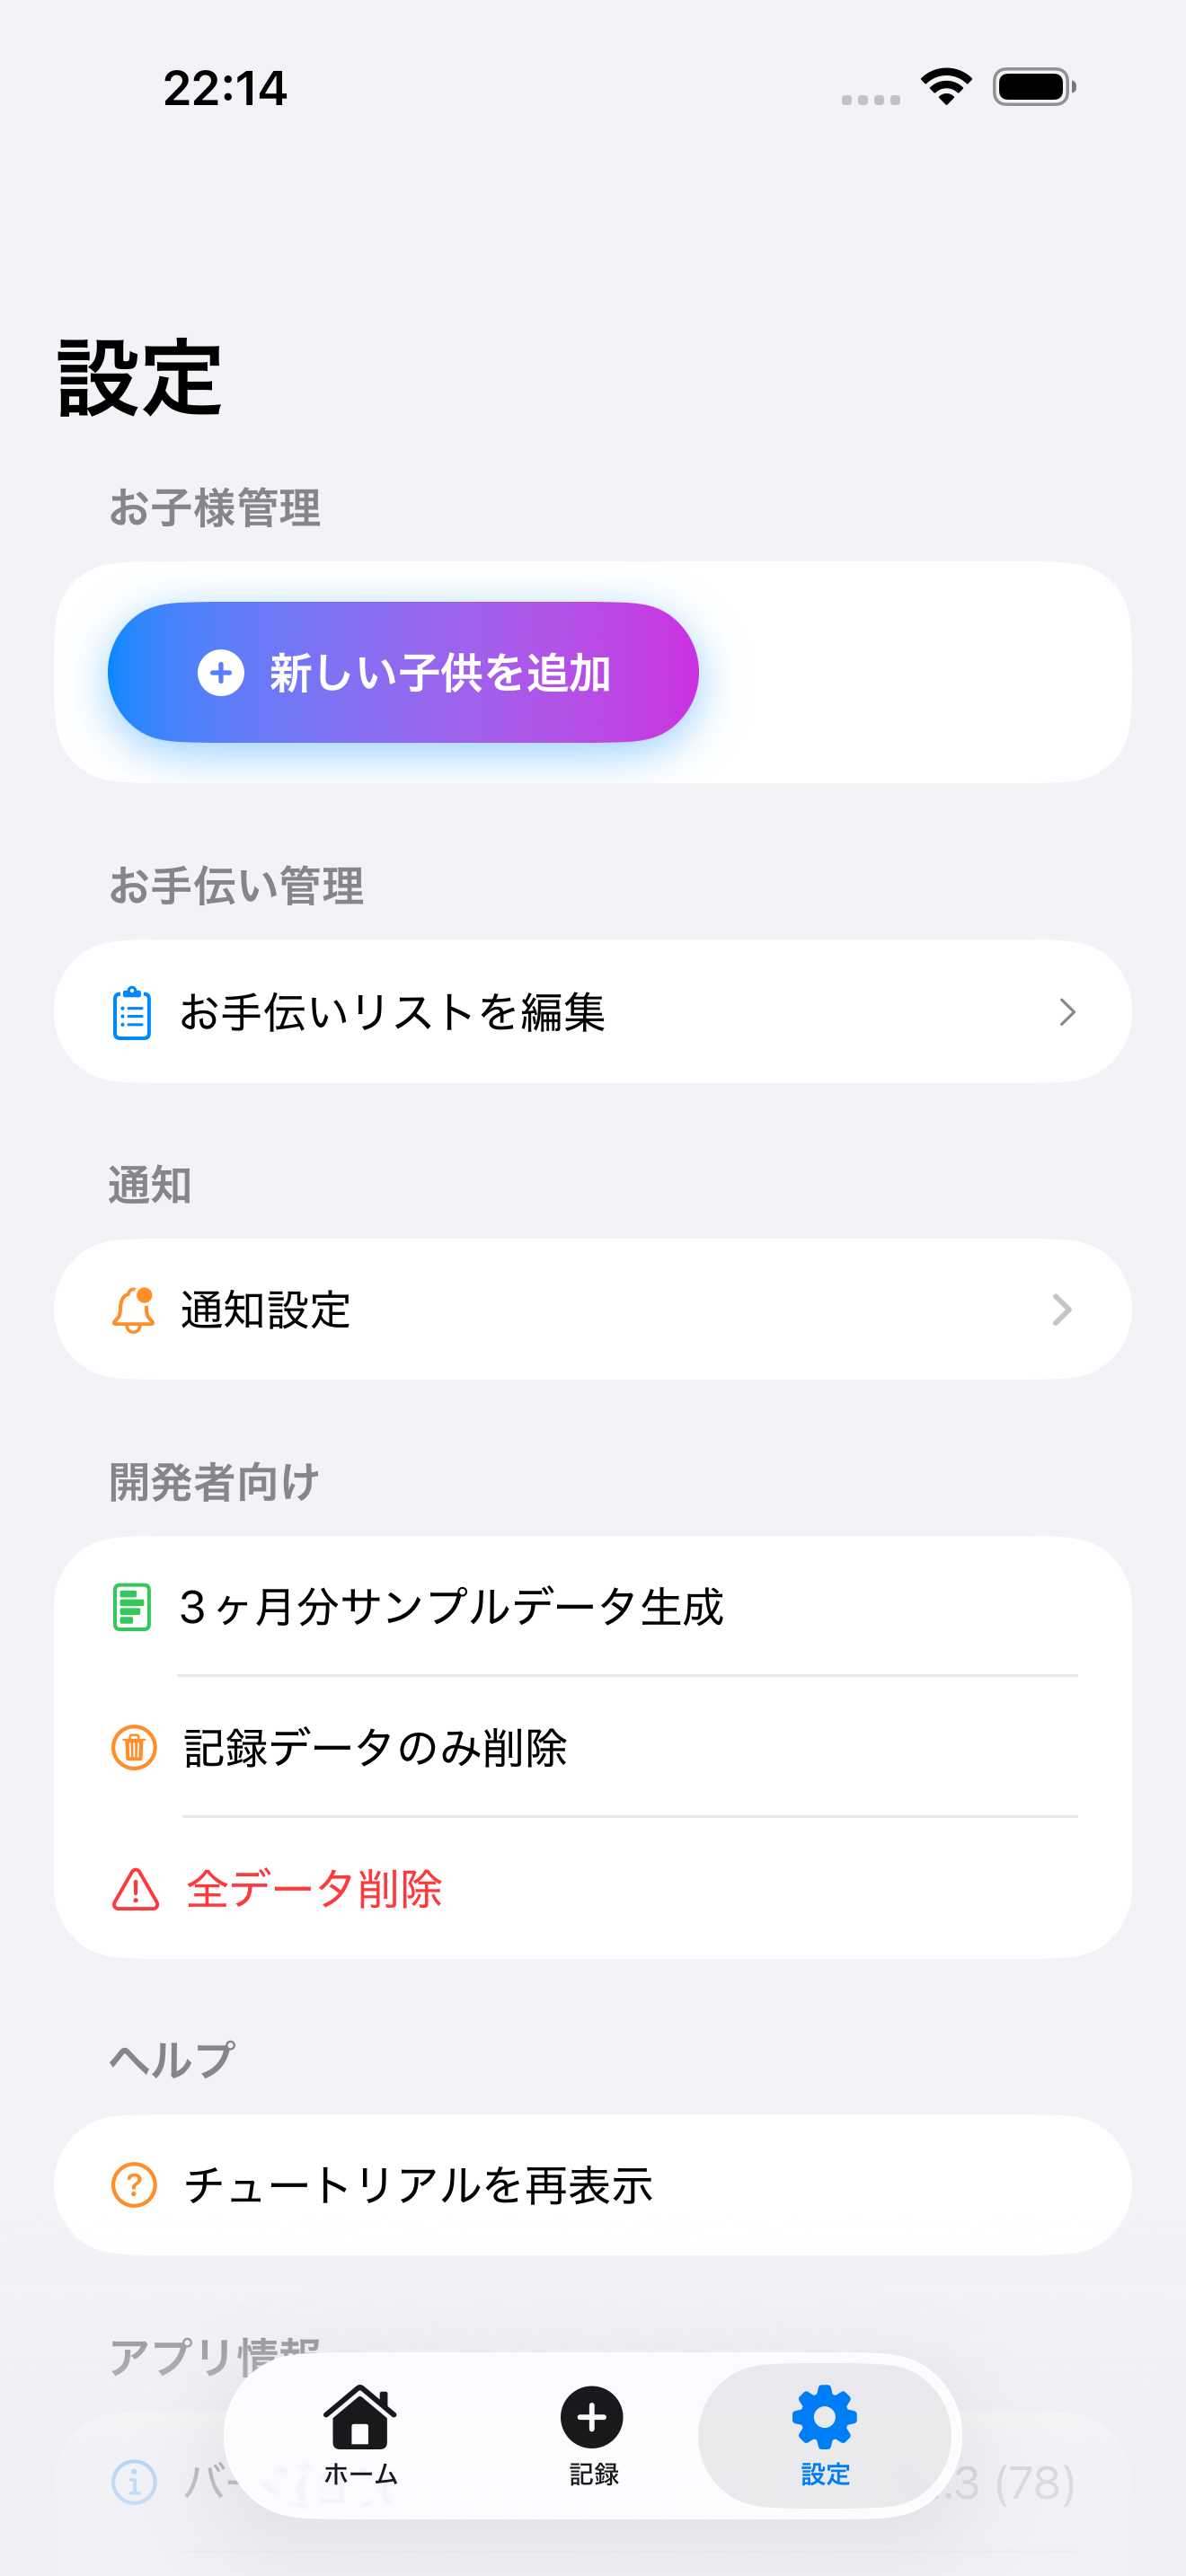
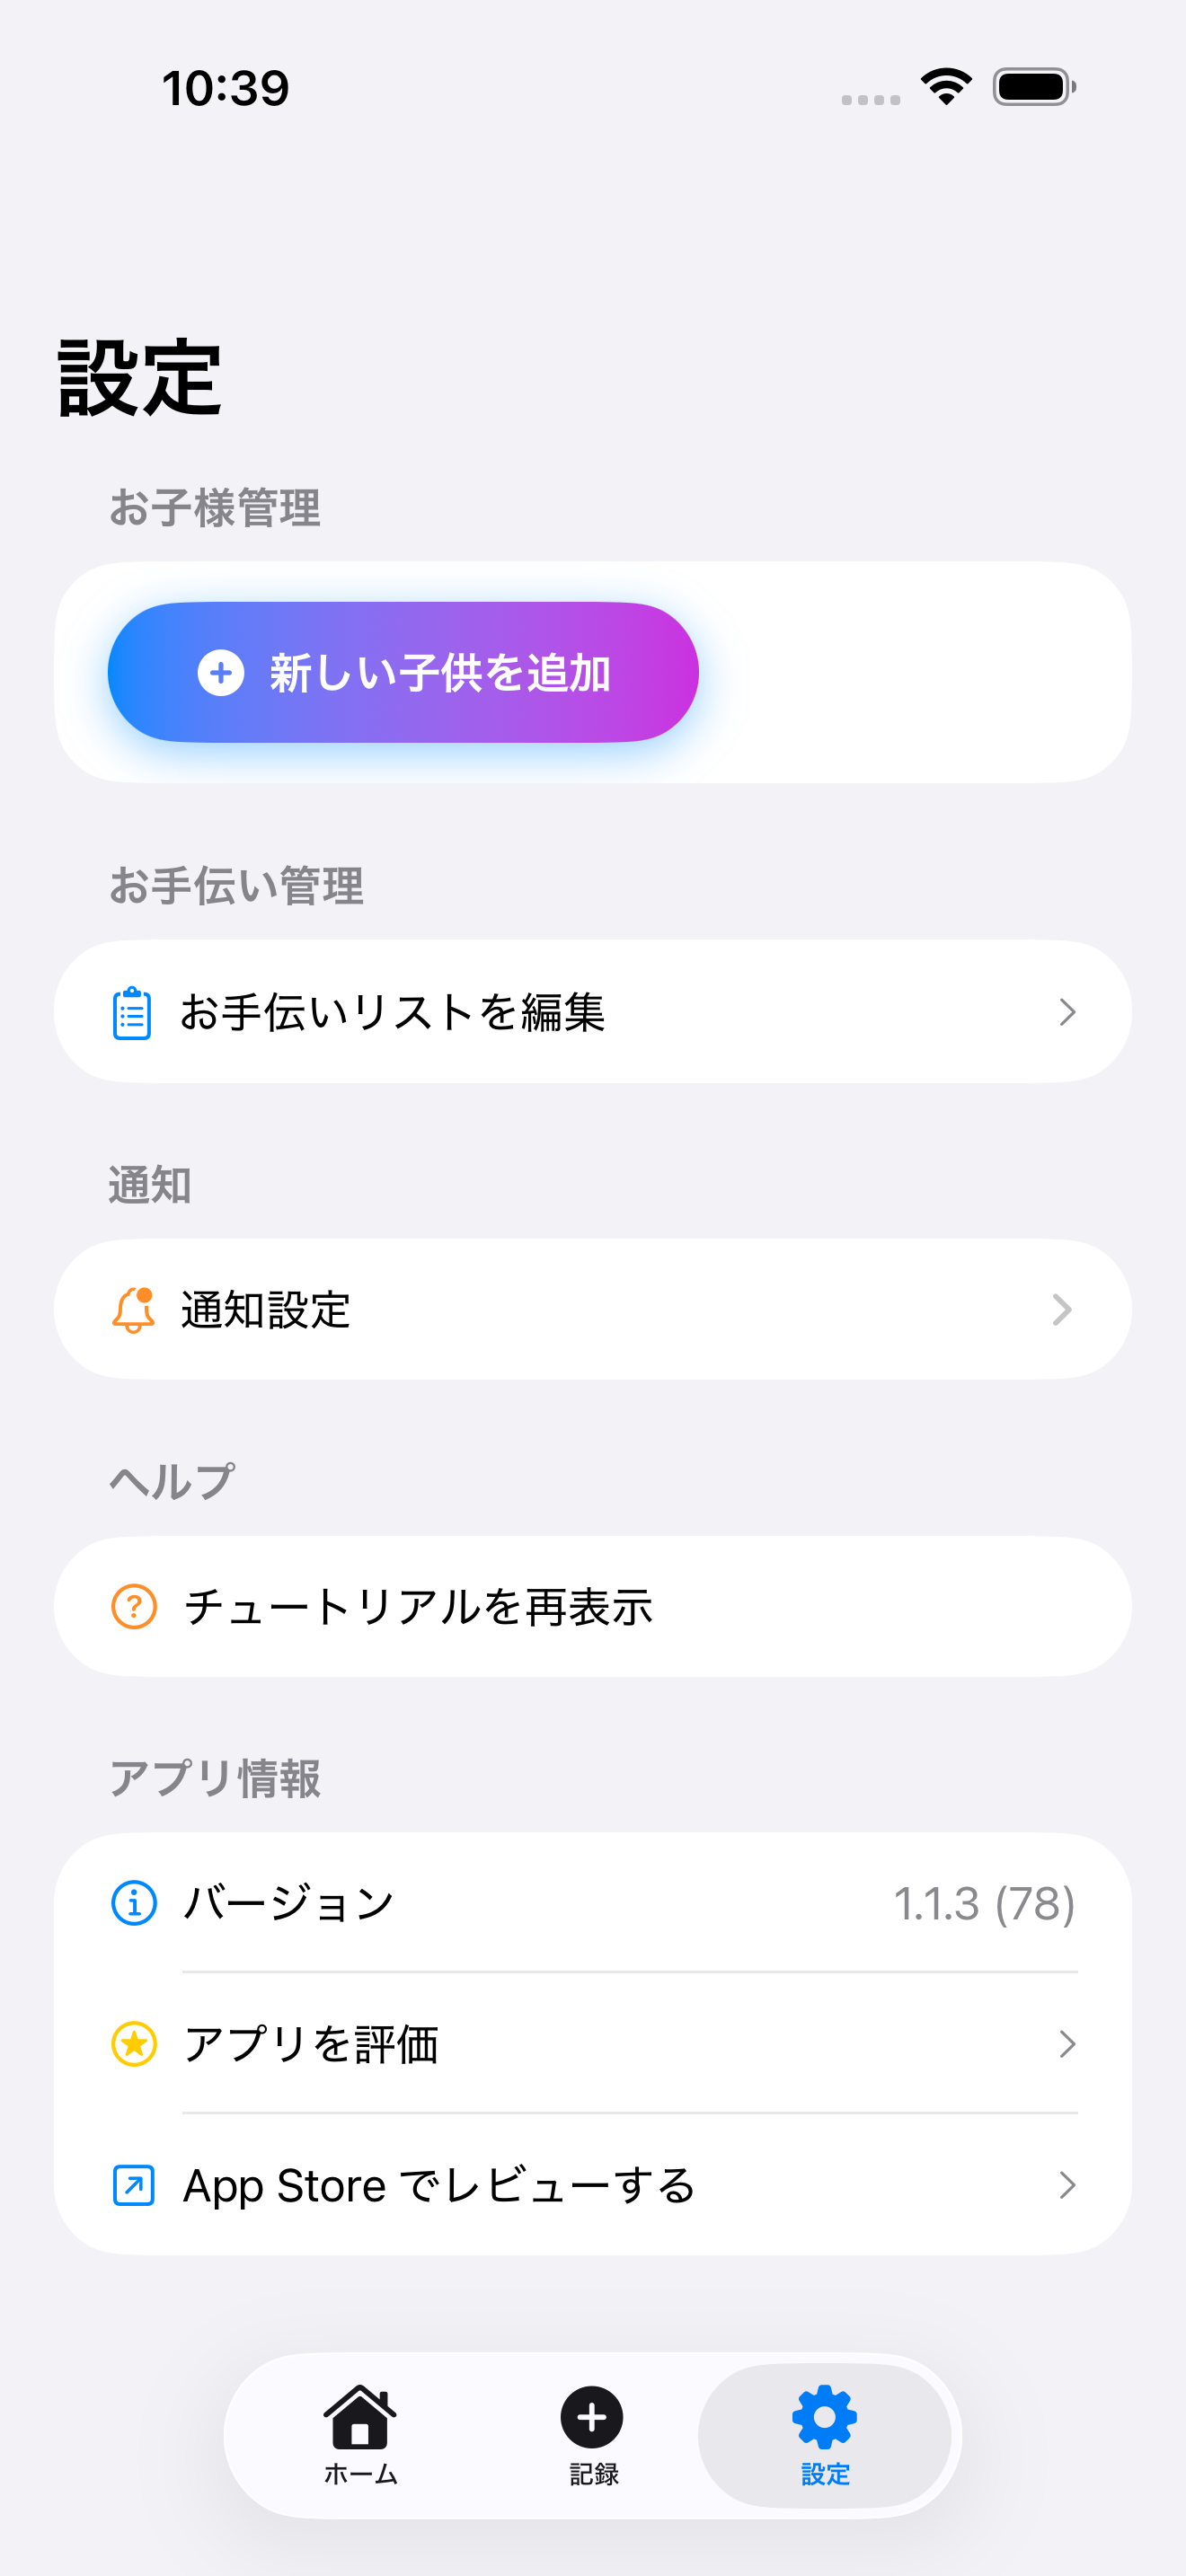
Merge pull request #115 from es0612/fix/issue-95-hide-developer-tools
fix(#95): ASC スクショで Developer 節を隠し Version 行の tab bar 被りを解消

Pull request: fix(#95): ASC スクショで Developer 節を隠し Version 行の tab bar 被りを解消
## 概要

ASC スクショ (Settings) で App Info(Version) 行が floating tab bar に被って隠れる問題を解消する (Issue #95, #89-4 follow-up / PR #94 revert の再挑戦)。

## 根本原因 — これは「レイアウトバグ」ではなく「スクショの不忠実」だった

`「開発者向け」` 節は `#if DEBUG` 限定で、**App Store で配信される Release ビルドには存在しない**。ところが ASC スクショは UI テスト = **Debug ビルド**で撮影するため Developer 節が映り込み、その ~2 セクション分が App Info を tab bar の裏まで押し下げていた。

つまり **実機 (Release) の Settings は元から壊れていない** — Developer 節が無ければ Version 行は tab bar をクリアする。本 PR の再撮影スクショがその証拠になる。よって**実レイアウト (Section 順序や inset) には一切手を入れず**、スクショを Release 実画面に忠実化するアプローチを採った。

## 変更

| ファイル | 内容 |
|---|---|
| `SettingsView.swift` | 撮影専用 launch arg `--hide-developer-tools` で Developer 節を非表示にする実行時ゲートを追加。判定は testable な static helper `shouldShowDeveloperTools(arguments:)` に切り出し |
| `ASCScreenshotUITests.swift` | 撮影時に `--hide-developer-tools` を付与 |
| `SettingsViewTests.swift` (新規) | helper の unit test 2件 (フラグ有→非表示 / 無→表示) |
| `docs/.../{en,ja}/03-settings.png` | 再撮影。Developer 節が消え Version 行が tab bar をクリア |

`--uitesting` を再利用せず**専用フラグ**にした理由: `--uitesting` は機能 UI テストでも使われており、将来 Developer 節を検証したいテストが出ても壊さないため (意図の局所化)。実機 / 通常開発ビルドの Developer 節は従来通り表示。

## 検証

- **helper unit test 2件**: `** TEST SUCCEEDED **` / `EXIT=0`
- **再撮影 + 目視**: `./scripts/capture-asc-screenshots.sh` → `en/ja 03-settings.png` で Developer 節が消え、Version 行 (`Version 1.1.3 (78)` / `バージョン 1.1.3 (78)`) が tab bar に被らず全文表示。acceptance 達成。
[…]

diff --git a/app/OtetsudaiCoinTests/Presentation/Views/SettingsViewTests.swift b/app/OtetsudaiCoinTests/Presentation/Views/SettingsViewTests.swift
@@ -1,0 +1,32 @@
+import XCTest
+import SwiftUI
+@testable import OtetsudaiCoin
+
+@MainActor
+final class SettingsViewTests: XCTestCase {
+
+    // SettingsView 本体は NavigationStack + List + Material + AccessibilityImageLabel の
+    // 組み合わせで ViewInspector が深く traverse できない (既知制約) ため、UI 構造は
+    // structural test で担保せず、ASC スクショ再撮影の目視検証に委ねる。
+    // 撮影時に DEBUG 限定 Developer 節を隠す判定 (Issue #95) は純粋関数として切り出し、
+    // ここで網羅する。
+
+    #if DEBUG
+    /// 撮影フラグ (--hide-developer-tools) があるとき Developer 節を隠す (= 表示しない)。
+    /// ASC スクショを Release 実画面に忠実化するための挙動。
+    func test_shouldShowDeveloperTools_hiddenWhenFlagPresent() {
+        XCTAssertFalse(
+            SettingsView.shouldShowDeveloperTools(arguments: ["--hide-developer-tools"]),
+            "撮影フラグ付き起動では Developer 節を非表示にすべき"
+        )
+    }
+
+    /// フラグが無い通常起動 (実機 / 開発ビルド) では従来通り Developer 節を表示する。
+    func test_shouldShowDeveloperTools_shownWhenFlagAbsent() {
+        XCTAssertTrue(
+            SettingsView.shouldShowDeveloperTools(arguments: ["--uitesting"]),
+            "撮影フラグが無い起動では Developer 節を従来通り表示すべき"
+        )
+    }
+    #endif
+}

diff --git a/app/OtetsudaiCoin/Presentation/Views/SettingsView.swift b/app/OtetsudaiCoin/Presentation/Views/SettingsView.swift
@@ -58,6 +58,16 @@ struct SettingsView: View {
         return "\(version) (\(build))"
     }
 
+    #if DEBUG
+    /// ASC マーケティングスクショを App Store の Release 実画面に忠実化するため、撮影時
+    /// (`--hide-developer-tools`) は DEBUG 限定の「開発者向け」節を隠す (Issue #95)。
+    /// Release ビルドには `#if DEBUG` により元から存在しないので、撮影 (Debug) ビルドで
+    /// だけ Release と同じ Settings レイアウトを再現し、Version 行が tab bar に被るのを防ぐ。
+    static func shouldShowDeveloperTools(arguments: [String] = ProcessInfo.processInfo.arguments) -> Bool {
+        !arguments.contains("--hide-developer-tools")
+    }
+    #endif
+
     var body: some View {
         NavigationStack {
             List {
@@ -117,6 +127,9 @@ struct SettingsView: View {
                 }
 
                 #if DEBUG
+                // Issue #95: ASC スクショ撮影時 (--hide-developer-tools) は Release 実画面に
+                // 忠実化するため Developer 節を隠す。実機 / 通常の開発ビルドでは従来通り表示。
+                if Self.shouldShowDeveloperTools() {
                 Section("開発者向け") {
                     Button(action: {
                         generateSampleData()
@@ -172,8 +185,9 @@ struct SettingsView: View {
                     .foregroundColor(.red)
                     .disabled(isClearingData)
                 }
+                }
                 #endif
-                
+
                 Section("ヘルプ") {
                     Button(action: {
                         tutorialService.resetTutorial()

diff --git a/app/OtetsudaiCoinUITests/ASCScreenshotUITests.swift b/app/OtetsudaiCoinUITests/ASCScreenshotUITests.swift
@@ -33,6 +33,10 @@ final class ASCScreenshotUITests: XCTestCase {
         let app = XCUIApplication()
         app.launchArguments += [
             "--uitesting",
+            // Issue #95: DEBUG 限定の「開発者向け」節を隠し、ASC スクショを App Store の
+            // Release 実画面に忠実化する。Developer 節 (~2 セクション分) を除くことで
+            // App Info(Version) 行が tab bar に被らず initial view に収まる。
+            "--hide-developer-tools",
             "-AppleLanguages", "(\(language))",
             "-AppleLocale", locale
         ]